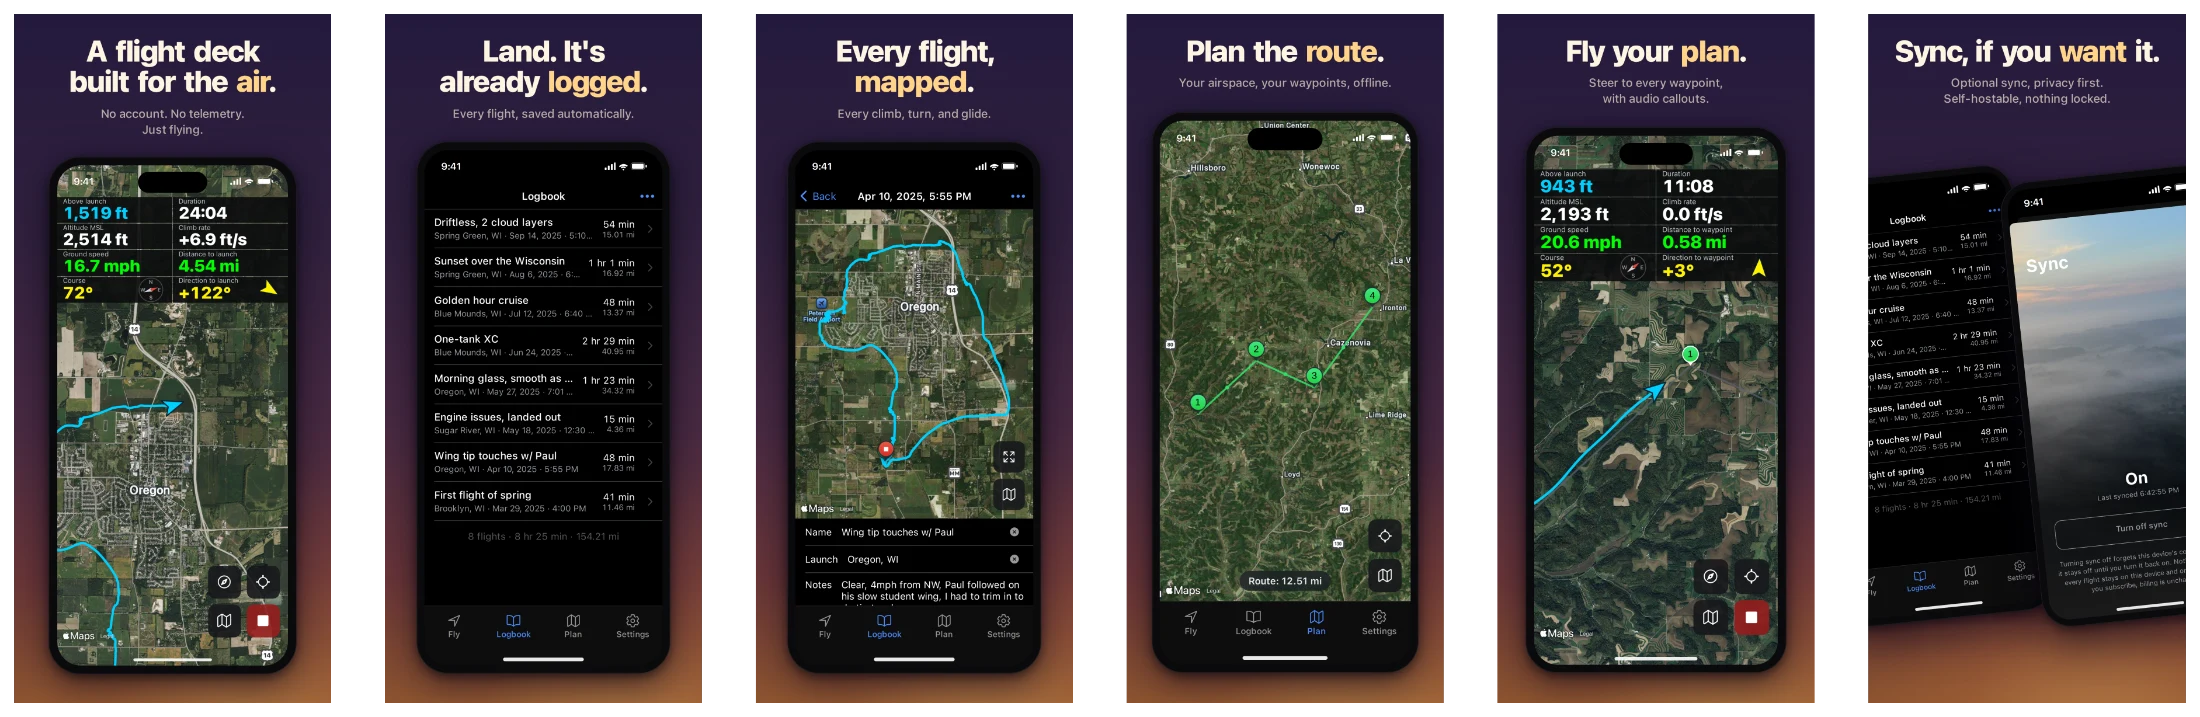
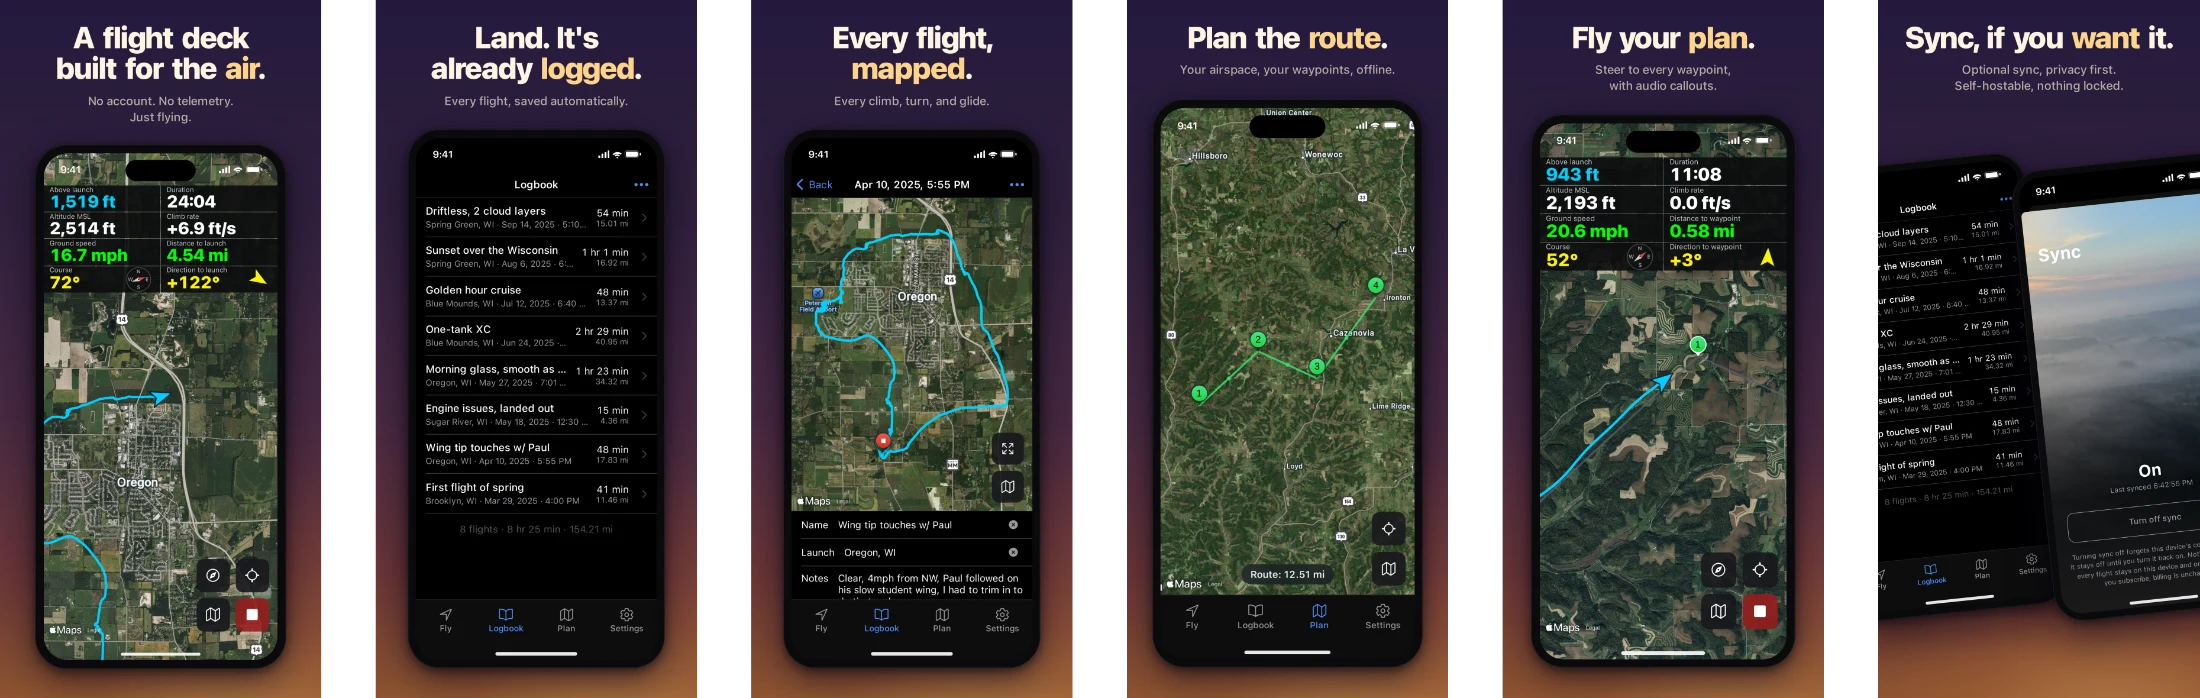
Fix CI lint; tighten README hero
- eslint.config.js: lint screenshots/** with Node globals (the scripts use
  process/Buffer). This was the CI `ci` job failure — I'd run build + e2e
  locally but not `pnpm lint`.
- Drop the unused OUT constant in generate-ipad.mjs; sort imports (--fix)
  across the screenshot scripts and engine/index.ts.
- hero.mjs: remove the outer padding so the README filmstrip is flush to the
  edges (inter-image gaps kept); regenerate design/hero.webp.

Claude-Session: https://claude.ai/code/session_01HeRHT1pmkehYrQkNwoPrSq

diff --git a/eslint.config.js b/eslint.config.js
@@ -72,7 +72,7 @@ export default defineConfig(
     },
   },
   {
-    files: ["e2e/**", "*.config.ts", "eslint.config.js"],
+    files: ["e2e/**", "screenshots/**", "*.config.ts", "eslint.config.js"],
     languageOptions: {
       globals: globals.node,
     },

diff --git a/src/engine/index.ts b/src/engine/index.ts
@@ -1,8 +1,8 @@
 import { webCore, withWebCore } from "./core";
+import { createGpxSource } from "./gpxSource";
 import { nativeCore } from "./nativeSource";
 import { isTauri } from "./platform";
 import { GeolocationRecordingEngine } from "./real";
-import { createGpxSource } from "./gpxSource";
 import { createSimulatorSource } from "./simulatorSource";
 import type { RecordingEngine } from "./types";
 